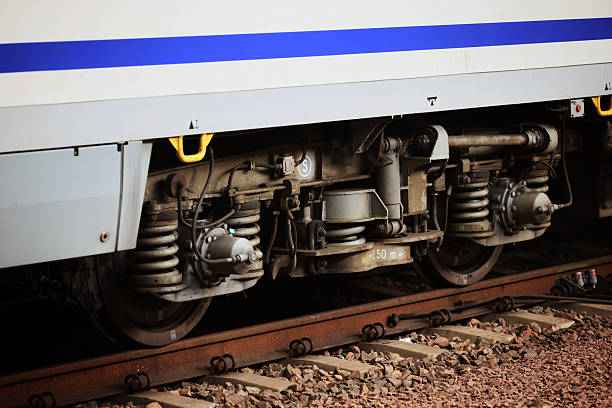
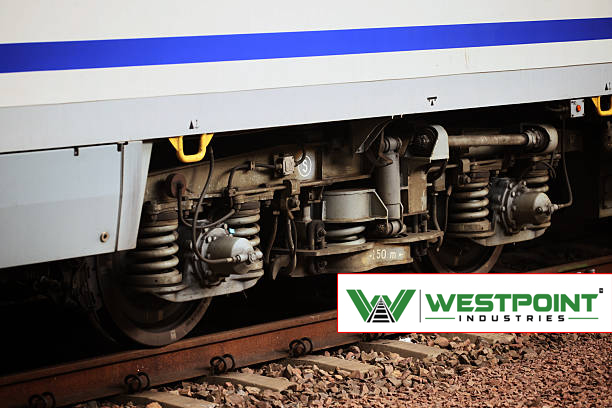
Set OUR NEW FRONTIERS heading to vibrant red and add dynamic typewriter animation for top header tagline

Changed region(s): [[0.5278, 0.6471, 1.0, 0.8235]]

diff --git a/src/components/Header.tsx b/src/components/Header.tsx
@@ -7,6 +7,43 @@ interface HeaderProps {
   onOpenExplorer?: () => void;
 }
 
+const TypewriterTagline: React.FC<{ text: string }> = ({ text }) => {
+  const [displayText, setDisplayText] = useState('');
+  const [isDeleting, setIsDeleting] = useState(false);
+
+  useEffect(() => {
+    let timer: number;
+    const speed = isDeleting ? 50 : 110;
+
+    if (!isDeleting && displayText.length < text.length) {
+      timer = window.setTimeout(() => {
+        setDisplayText(text.slice(0, displayText.length + 1));
+      }, speed);
+    } else if (!isDeleting && displayText.length === text.length) {
+      timer = window.setTimeout(() => {
+        setIsDeleting(true);
+      }, 2200);
+    } else if (isDeleting && displayText.length > 0) {
+      timer = window.setTimeout(() => {
+        setDisplayText(text.slice(0, displayText.length - 1));
+      }, speed);
+    } else if (isDeleting && displayText.length === 0) {
+      timer = window.setTimeout(() => {
+        setIsDeleting(false);
+      }, 400);
+    }
+
+    return () => clearTimeout(timer);
+  }, [displayText, isDeleting, text]);
+
+  return (
+    <span style={{ fontStyle: 'italic', fontSize: '21px', color: '#C8102E', whiteSpace: 'nowrap', fontWeight: 900, minWidth: '220px', display: 'inline-block' }}>
+      {displayText}
+      <span style={{ animation: 'blinkCursor 0.8s infinite', marginLeft: '2px', color: '#C8102E', fontWeight: 900 }}>|</span>
+    </span>
+  );
+};
+
 export const Header: React.FC<HeaderProps> = ({ onRequestQuoteClick, onOpenExplorer }) => {
   const [isScrolled, setIsScrolled] = useState(false);
   const [activeMegaMenu, setActiveMegaMenu] = useState<string | null>(null);
@@ -171,11 +208,13 @@ export const Header: React.FC<HeaderProps> = ({ onRequestQuoteClick, onOpenExplo
 
             {/* Right Division Emblems (Desktop) with Tagline & Infinite Slider */}
             <div className="desktop-nav-only" style={{ display: 'flex', alignItems: 'center', gap: '16px', maxWidth: '750px', flex: 1, marginLeft: '12px' }}>
-              <span style={{ fontStyle: 'italic', fontSize: '21px', color: '#C8102E', whiteSpace: 'nowrap', fontWeight: 900 }}>
-                Our Total lineup.......
-              </span>
+              <TypewriterTagline text="Our Total lineup......." />
               
               <style>{`
+                @keyframes blinkCursor {
+                  0%, 100% { opacity: 1; }
+                  50% { opacity: 0; }
+                }
                 @keyframes slideLogosHeader {
                   0% { transform: translateX(0); }
                   100% { transform: translateX(calc(-50% - 12px)); } /* 12px is half the gap */

diff --git a/src/components/NewFrontiers.tsx b/src/components/NewFrontiers.tsx
@@ -17,7 +17,7 @@ const NewFrontiers: React.FC = () => {
           <span style={{ fontSize: '0.85rem', fontWeight: 900, letterSpacing: '0.15em', color: '#A5D6A7', textTransform: 'uppercase', display: 'block', marginBottom: '0.5rem', fontFamily: "'Manrope', sans-serif !important" }}>
             Expanding Our Capabilities
           </span>
-          <h2 style={{ fontSize: '2.5rem', fontWeight: 900, margin: 0, color: '#FFFFFF', fontFamily: "'Manrope', sans-serif !important" }}>
+          <h2 style={{ fontSize: 'clamp(2.5rem, 5vw, 3.8rem)', fontWeight: 900, margin: 0, color: '#C8102E', letterSpacing: '0.02em', fontFamily: "'Manrope', sans-serif !important" }}>
             OUR NEW FRONTIERS...
           </h2>
         </div>
